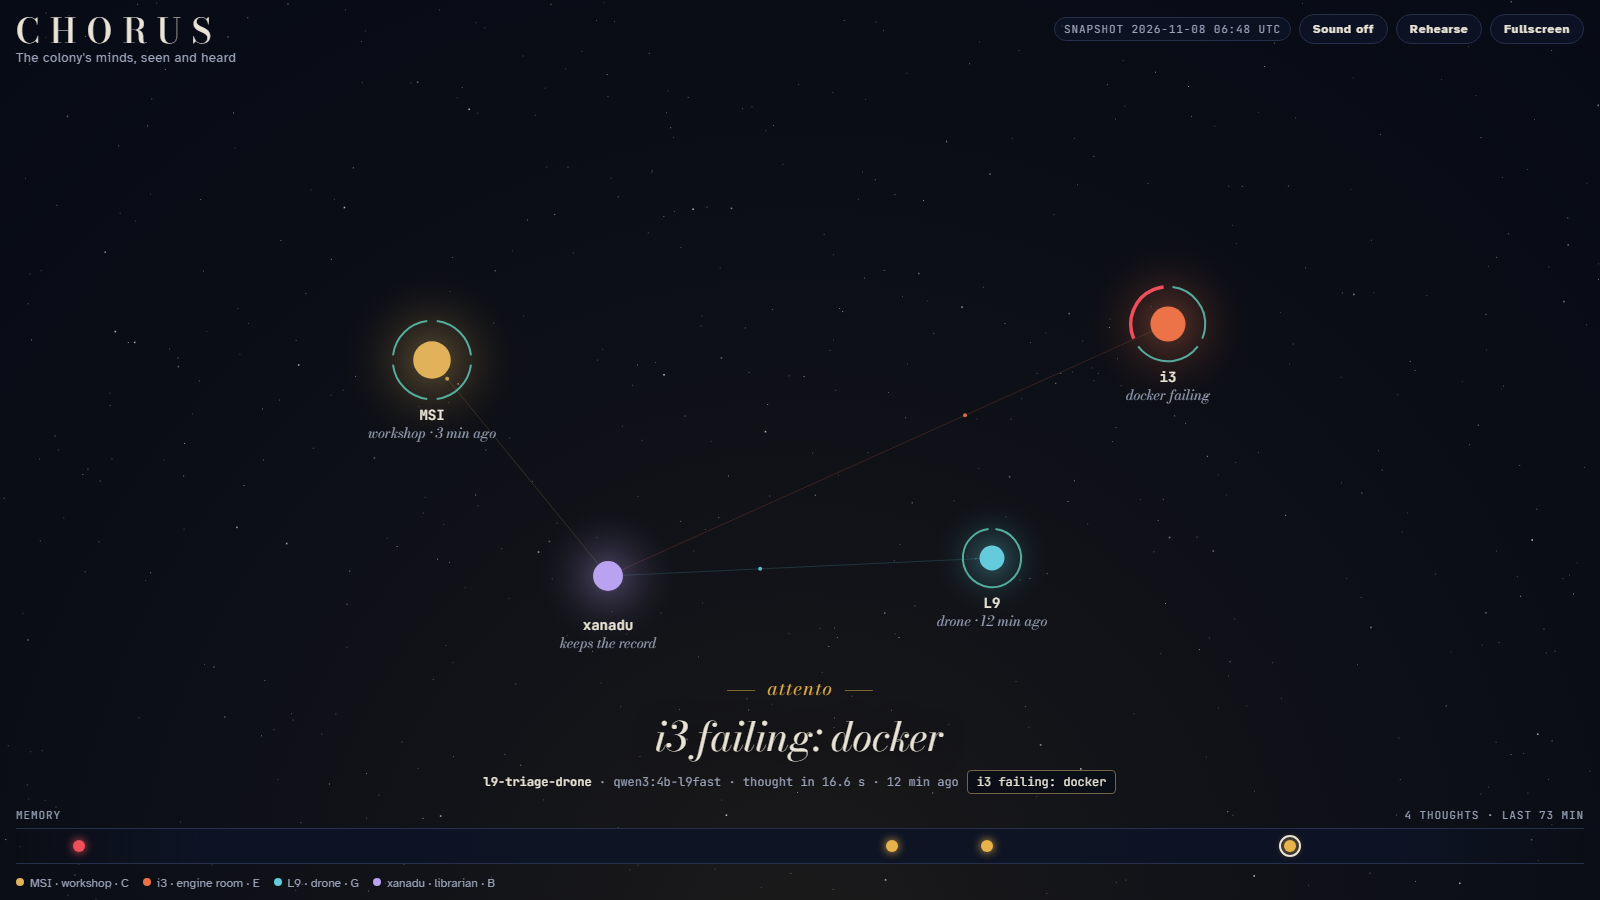
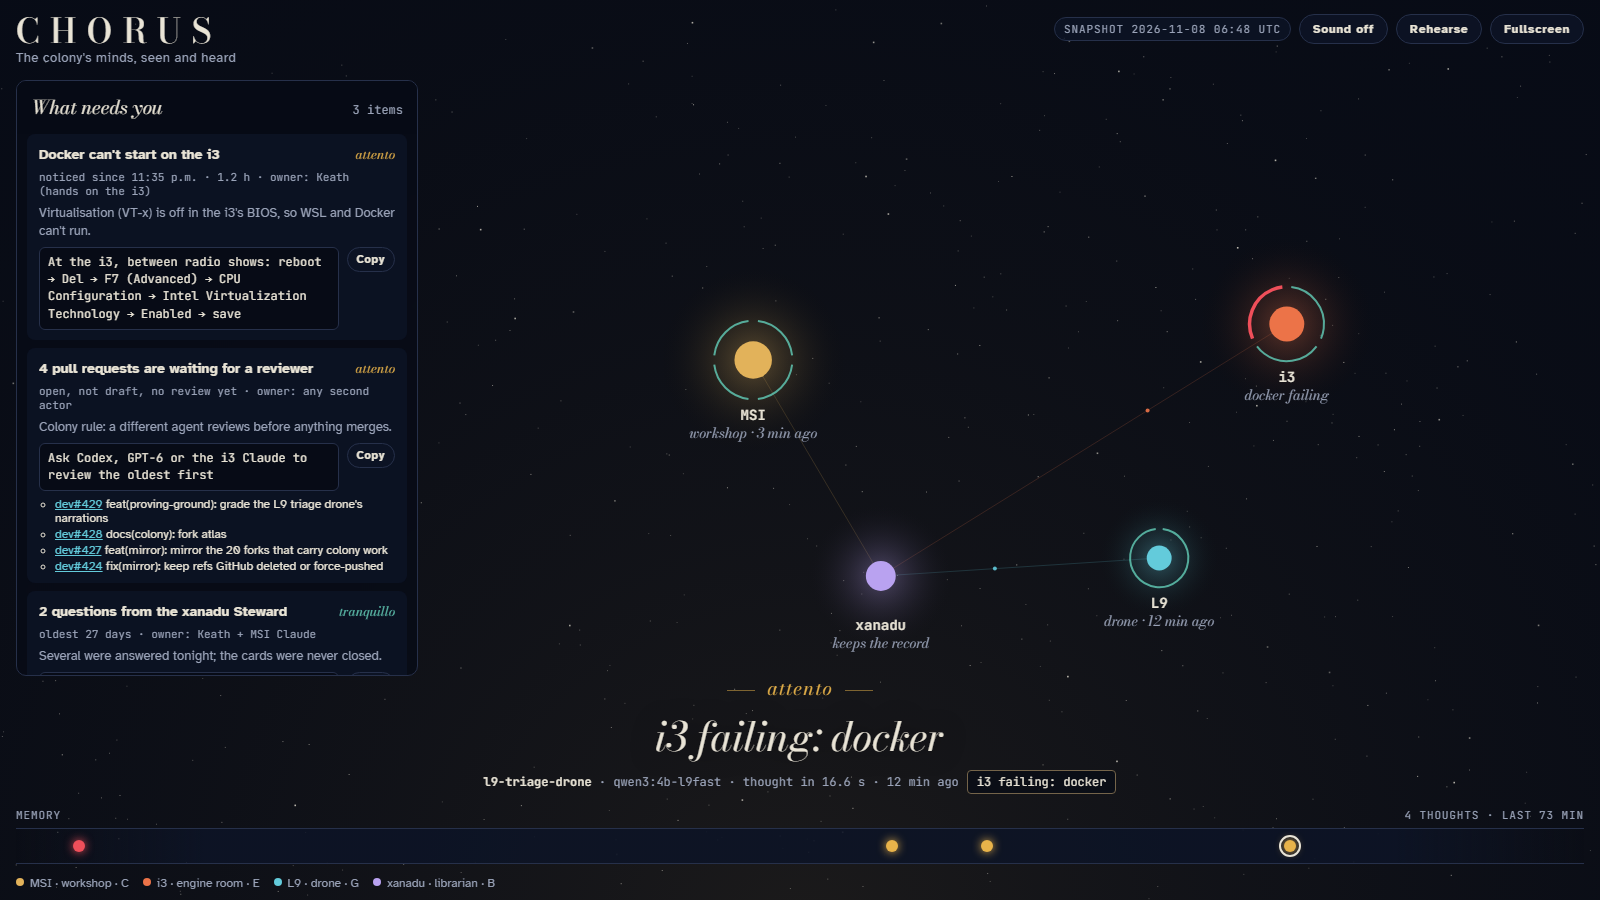
feat(mindview): CHORUS becomes useful - 'What needs you' with a runbook
Ranked list of what needs Keath now: what is wrong, how long the Minds have
noticed it (from their memory), the measured cause, the exact next move
(copyable) and who owns it. Runbook for docker/litellm/i3-tunnel/dev-mentor/
ollama/gameattract/l9 mind; plus stale off-box backup (finished sets only),
mirrors behind, PRs waiting for a reviewer (gh, cached 5 min) and the
Steward's unanswered questions. The feeder now also reads backup, mirror and
outbox facts from xanadu in the same single read-only call. The sky shifts
right of the panel on wide screens.

Claude-Session: https://claude.ai/code/session_01Gzhhus3aC4tcq31vhsohXH

diff --git a/chorus/index.html b/chorus/index.html
@@ -83,6 +83,38 @@ button[aria-pressed="true"] { border-color: var(--attento); color: var(--attento
 .who { font-family: var(--f-data); font-size: 12px; color: var(--ink-dim); }
 .who b { color: var(--ink); font-weight: 600; }
 
+/* What needs you: the work list. Ranked by severity; each item says what, since when, why, your move, who. */
+.needs {
+  pointer-events: auto; align-self: start; justify-self: start; margin-top: 14px;
+  width: min(400px, 100%); max-height: calc(100% - 14px); overflow: auto;
+  background: color-mix(in srgb, var(--sky) 82%, transparent); border: 1px solid var(--hair); border-radius: 10px;
+  backdrop-filter: blur(6px);
+}
+.needs summary {
+  cursor: pointer; list-style: none; display: flex; justify-content: space-between; align-items: baseline;
+  padding: 12px 14px; position: sticky; top: 0; background: color-mix(in srgb, var(--sky) 92%, transparent);
+}
+.needs summary::-webkit-details-marker { display: none; }
+.needs summary:focus-visible { outline: 2px solid var(--l9); outline-offset: -2px; }
+.needs-title { font-family: var(--f-display); font-style: italic; font-size: 19px; }
+.needs-count { font-family: var(--f-data); font-size: 12px; color: var(--ink-dim); font-variant-numeric: tabular-nums; }
+.needs-list { list-style: none; margin: 0; padding: 0 10px 10px; display: grid; gap: 8px; }
+.need { display: grid; gap: 6px; padding: 10px 12px; border-radius: 8px; background: color-mix(in srgb, var(--sky-2) 85%, transparent); }
+.need-head { display: flex; gap: 8px; align-items: baseline; justify-content: space-between; }
+.need-what { font-weight: 700; font-size: 14px; line-height: 1.3; }
+.sev { font-family: var(--f-display); font-style: italic; font-size: 13px; color: var(--c); white-space: nowrap; }
+.need-meta { font-family: var(--f-data); font-size: 11px; color: var(--ink-dim); font-variant-numeric: tabular-nums; }
+.need-why { font-size: 13px; color: var(--ink-dim); line-height: 1.4; }
+.move { display: flex; gap: 8px; align-items: flex-start; }
+.move code {
+  flex: 1; font-family: var(--f-data); font-size: 12px; line-height: 1.45; color: var(--ink);
+  background: var(--sky); border: 1px solid var(--hair); border-radius: 6px; padding: 6px 8px; overflow-wrap: anywhere;
+}
+.move button { padding: 5px 9px; font-size: 11px; }
+.need a { color: var(--l9); }
+.need ul { margin: 0; padding-left: 16px; font-size: 12px; display: grid; gap: 2px; }
+.clear { padding: 4px 14px 14px; color: var(--tranquillo); font-family: var(--f-display); font-style: italic; }
+@media (max-width: 720px) { .needs { max-height: 34vh; margin-top: 10px; } }
 .river { pointer-events: auto; display: grid; gap: 6px; }
 .river-head { display: flex; justify-content: space-between; font-family: var(--f-data); font-size: 11px; color: var(--ink-dim); letter-spacing: 0.08em; text-transform: uppercase; }
 .river-track {
@@ -125,7 +157,10 @@ button[aria-pressed="true"] { border-color: var(--attento); color: var(--attento
       </div>
     </div>
   </header>
-  <div></div>
+  <details class="needs" id="needs" open>
+    <summary><span class="needs-title">What needs you</span> <span class="needs-count" id="needs-count"></span></summary>
+    <ol class="needs-list" id="needs-list"></ol>
+  </details>
   <section class="thought" aria-live="polite">
     <div class="marking" id="marking">tranquillo</div>
     <p class="line" id="line">The fleet is quiet.</p>
@@ -197,7 +232,11 @@ function resize() {
   stars = Array.from({length: Math.round(W * H / 2600)}, () => ({x: Math.random() * W, y: Math.random() * H, z: Math.random(), p: Math.random() * 6.28}));
 }
 addEventListener("resize", resize); resize();
-const rigXY = id => { const r = RIGS.find(q => q.id === id); return [r.pos[0] * W, r.pos[1] * H * (W < 520 ? 0.9 : 1)]; };
+// On wide screens the sky sits right of the "What needs you" panel (420 px), so no star hides behind it.
+const rigXY = id => {
+  const r = RIGS.find(q => q.id === id), left = W >= 900 ? 440 : 0;
+  return [left + r.pos[0] * (W - left), r.pos[1] * H * (W < 520 ? 0.9 : 1)];
+};
 const ageMin = hb => hb ? (nowFn() - Date.parse(hb.at)) / 60000 : Infinity;
 function rigState(id) {
   if (id === "xanadu") return {silent: false, host: true, checks: []};   // xanadu holds the record itself
@@ -409,10 +448,102 @@ async function poll() {
     const r = await fetch("feed.json", {cache: "no-store"}); if (!r.ok) throw 0;
     const d = await r.json(); const fresh = d.events.length && d.events[d.events.length - 1].at !== events[events.length - 1]?.at;
     events = d.events; heartbeats = d.heartbeats; live = true; nowFn = () => Date.now(); setSource(); drawRiver();
+    extras = {backup: d.backup, mirror: d.mirror, steward_cards: d.steward_cards || [], prs_waiting: d.prs_waiting || []};
+    renderNeeds();
     if (fresh && !rehearsing) show(events[events.length - 1]);
   } catch { /* no feeder: stay on the snapshot */ }
 }
 if (location.protocol.startsWith("http") && !location.hostname.endsWith("claude.ai")) { poll(); setInterval(poll, 15000); }
 
-drawRiver(); show(current, false); requestAnimationFrame(frame);
+// ---------- what needs you: the runbook turns every failing fact into a move ----------
+// Each entry: what it means, the cause the colony has measured, the exact next move, and who can make it.
+const RUNBOOK = {
+  "i3:docker": {what: "Docker can't start on the i3", why: "Virtualisation (VT-x) is off in the i3's BIOS, so WSL and Docker can't run.",
+    move: "At the i3, between radio shows: reboot → Del → F7 (Advanced) → CPU Configuration → Intel Virtualization Technology → Enabled → save", owner: "Keath (hands on the i3)"},
+  "msi:dev-mentor": {what: "Terminal Depths isn't answering on MSI", why: "Its 1.1-million-row event table stalls the API. The fix is written.",
+    move: "Review and merge Dev-Mentor#286, then: docker restart kilocore-dev-mentor", owner: "a second reviewer, then Keath"},
+  "msi:i3-tunnel": {what: "MSI can't reach the i3's models", why: "The tunnel to the i3's Ollama dropped. LiteLLM's ecosystem-qwen falls back to MSI's own models.",
+    move: "wscript //B //Nologo %LOCALAPPDATA%\\KiloCore\\bin\\i3-ollama-tunnel.vbs", owner: "anyone on MSI (it also restarts at logon)"},
+  "msi:litellm": {what: "The model gateway (LiteLLM) is down", why: "Every agent's local-model calls go through :4000.",
+    move: "docker start ai-litellm", owner: "anyone on MSI"},
+  "msi:docker": {what: "Docker Desktop isn't running on MSI", why: "LiteLLM, Terminal Depths, the Culture Ship and 20+ services live there.",
+    move: "Start Docker Desktop, then check: docker ps", owner: "Keath"},
+  "i3:ollama": {what: "The i3's models aren't answering", why: "The i3's Ollama serves the colony's qwen3:8b over the tunnel.",
+    move: "Ask the i3 Claude to check Ollama on the i3 (radio first)", owner: "i3 Claude"},
+  "i3:gameattract": {what: "The i3's playtest rotation stopped", why: "GameAttract is the i3's screensaver and playtest lab.",
+    move: "Ask the i3 Claude to restart the GameAttract director", owner: "i3 Claude"},
+  "l9:ollama-mind": {what: "L9's mind isn't thinking", why: "The triage drone's model on L9 didn't answer this cycle.",
+    move: "ssh kilodesktop then check Ollama on :11435 (the drone falls back to facts only)", owner: "MSI Claude"}
+};
+const LEVEL_RANK = {alarm: 2, notable: 1, routine: 0};
+let extras = {
+  backup: {set: "2026-11-07", age_h: 1.4, in_progress: true},
+  mirror: {age_h: 1.0, ok: true, repos: 75, failures: 0},
+  steward_cards: [{title: "REQUEST 01 (CRITICAL): make xanadu's network survive a reboot", age_d: 26.6}, {title: "REQUEST 02 (HIGH): disable two unused snaps", age_d: 26.6}],
+  prs_waiting: [
+    {repo: "dev", number: 429, title: "feat(proving-ground): grade the L9 triage drone's narrations", url: "https://github.com/GSV-Sublime-Optimization/dev/pull/429"},
+    {repo: "dev", number: 428, title: "docs(colony): fork atlas", url: "https://github.com/GSV-Sublime-Optimization/dev/pull/428"},
+    {repo: "dev", number: 427, title: "feat(mirror): mirror the 20 forks that carry colony work", url: "https://github.com/GSV-Sublime-Optimization/dev/pull/427"},
+    {repo: "dev", number: 424, title: "fix(mirror): keep refs GitHub deleted or force-pushed", url: "https://github.com/GSV-Sublime-Optimization/dev/pull/424"}
+  ]
+};
+// How long has a reason been true? Walk the Minds' memory back from now.
+function since(reasonPrefix) {
+  let first = null;
+  for (let i = events.length - 1; i >= 0; i--) {
+    if ((events[i].reasons || []).some(r => r.startsWith(reasonPrefix))) first = events[i].at; else if (first) break;
+  }
+  return first;
+}
+const hm = iso => new Date(iso).toLocaleTimeString([], {hour: "2-digit", minute: "2-digit"});
+const dur = ms => { const m = Math.round(ms / 60000); return m < 60 ? `${m} min` : `${(m / 60).toFixed(m < 600 ? 1 : 0)} h`; };
+function needs() {
+  const out = [];
+  for (const r of RIGS) {
+    if (r.id === "xanadu") continue;
+    const st = rigState(r.id);
+    if (st.silent) {
+      out.push({level: "alarm", what: `${r.name} has gone silent`, meta: st.hb ? `last heard ${Math.round(st.age)} min ago` : "never reported",
+        why: "No heartbeat in 15 minutes: the rig is off, asleep, offline, or its heartbeat task stopped.",
+        move: `Check ${r.name} is on and online; then ssh ${r.id === "l9" ? "kilodesktop" : r.id} and look at its heartbeat task`, owner: "Keath or MSI Claude"});
+      continue;
+    }
+    for (const c of st.checks.filter(c => !c.ok)) {
+      const rb = RUNBOOK[`${r.id}:${c.name}`] || {what: `${r.name}: ${c.name} failing`, why: c.detail || "No runbook entry yet.", move: `Look at the ${c.name} check on ${r.name}`, owner: "unassigned"};
+      const s = since(`${r.id} failing: ${c.name}`);
+      out.push({level: "notable", ...rb, meta: s ? `noticed since ${hm(s)} · ${dur(nowFn() - Date.parse(s))}` : "failing now"});
+    }
+  }
+  const b = extras.backup;
+  if (!b || b.age_h > 36) out.push({level: "alarm", what: "Off-box backup is stale", meta: b ? `newest finished set ${b.set} · ${Math.round(b.age_h)} h old` : "no finished set",
+    why: "Local-only work (vault, memory, unpushed branches) has no copy off MSI.", move: "python C:/dev/tools/colony/offbox_backup.py run", owner: "anyone on MSI"});
+  const m = extras.mirror;
+  if (!m || m.age_h > 26 || !m.ok) out.push({level: "notable", what: "Git mirrors are behind", meta: m ? `${m.age_h} h old · ${m.failures} failed` : "no receipt",
+    why: "The off-GitHub copy of the colony's code is stale.", move: "python %LOCALAPPDATA%/KiloCore/bin/mirror_sync.py run", owner: "anyone on MSI"});
+  if (extras.prs_waiting.length) out.push({level: "notable", what: `${extras.prs_waiting.length} pull requests are waiting for a reviewer`,
+    meta: "open, not draft, no review yet", why: "Colony rule: a different agent reviews before anything merges.",
+    move: "Ask Codex, GPT-6 or the i3 Claude to review the oldest first", owner: "any second actor", list: extras.prs_waiting.slice(0, 5)});
+  if (extras.steward_cards.length) out.push({level: "routine", what: `${extras.steward_cards.length} questions from the xanadu Steward`,
+    meta: `oldest ${Math.round(Math.max(...extras.steward_cards.map(c => c.age_d || 0)))} days`, why: "Several were answered tonight; the cards were never closed.",
+    move: "Answer or close them in xanadu:~/steward/outbox/ (dev#419 has the re-checked digest)", owner: "Keath + MSI Claude"});
+  return out.sort((a, b) => LEVEL_RANK[b.level] - LEVEL_RANK[a.level]);
+}
+function renderNeeds() {
+  const list = document.getElementById("needs-list"), items = needs(); list.replaceChildren();
+  document.getElementById("needs-count").textContent = items.filter(i => i.level !== "routine").length ? `${items.length} items` : "all clear";
+  if (!items.length) { const p = document.createElement("li"); p.className = "clear"; p.textContent = "Nothing needs you. The fleet is in tune."; list.append(p); return; }
+  for (const it of items) {
+    const li = document.createElement("li"); li.className = "need";
+    li.innerHTML = `<div class="need-head"><span class="need-what">${esc(it.what)}</span><span class="sev" style="--c: var(${LEVEL[it.level].color})">${LEVEL[it.level].word}</span></div>
+      <div class="need-meta">${esc(it.meta || "")} · owner: ${esc(it.owner)}</div>
+      <div class="need-why">${esc(it.why)}</div>
+      <div class="move"><code>${esc(it.move)}</code><button type="button">Copy</button></div>`;
+    if (it.list) { const ul = document.createElement("ul"); for (const p of it.list) { const a = document.createElement("li"); a.innerHTML = `<a href="${esc(p.url)}" target="_blank" rel="noopener">${esc(p.repo)}#${p.number}</a> ${esc(p.title)}`; ul.append(a); } li.append(ul); }
+    const btn = li.querySelector("button");
+    btn.onclick = () => navigator.clipboard?.writeText(it.move).then(() => { btn.textContent = "Copied"; setTimeout(() => btn.textContent = "Copy", 1500); }, () => { btn.textContent = "Select it"; });
+    list.append(li);
+  }
+}
+
+drawRiver(); renderNeeds(); show(current, false); requestAnimationFrame(frame);
 </script>

diff --git a/chorus/mindview_feed.py b/chorus/mindview_feed.py
@@ -37,8 +37,42 @@ beats = {}
 for f in glob.glob(os.path.join(home, "heartbeats", "*.json")):
     try: beats[os.path.basename(f)[:-5]] = json.load(open(f))
     except ValueError: pass
-print(json.dumps({"events": [e for e in events if not e.get("simulated")][-200:], "heartbeats": beats, "served_at": time.time()}))
+import re
+now = time.time()
+sets = sorted(f for f in glob.glob(os.path.expanduser("~/backups/colony/20*")) if re.fullmatch(r"\d{4}-\d{2}-\d{2}", os.path.basename(f)))
+backup = {"set": os.path.basename(sets[-1]), "age_h": round((now - os.path.getmtime(sets[-1])) / 3600, 1),
+          "in_progress": bool(glob.glob(os.path.expanduser("~/backups/colony/*.partial")))} if sets else None
+recs = sorted(glob.glob(os.path.expanduser("~/mirrors/_receipts/*.json")), key=os.path.getmtime)
+mirror = None
+if recs:
+    r = json.load(open(recs[-1]))
+    mirror = {"age_h": round((now - os.path.getmtime(recs[-1])) / 3600, 1), "ok": r.get("ok"),
+              "repos": len(r.get("repos", [])), "failures": r.get("failures", 0)}
+cards = []
+for f in sorted(glob.glob(os.path.join(home, "outbox", "*.md"))):
+    head = next((l.strip("# \n") for l in open(f, encoding="utf-8", errors="replace") if l.startswith("#")), os.path.basename(f))
+    cards.append({"file": os.path.basename(f), "title": head[:140], "age_d": round((now - os.path.getmtime(f)) / 86400, 1)})
+print(json.dumps({"events": [e for e in events if not e.get("simulated")][-200:], "heartbeats": beats,
+                  "backup": backup, "mirror": mirror, "steward_cards": cards, "served_at": now}))
 PY"""
+
+PRS_EVERY = 300          # GitHub is asked at most every 5 minutes
+_prs = {"at": 0.0, "items": []}
+
+
+def waiting_prs() -> list[dict]:
+    """Open, non-draft colony PRs with no review yet: the work waiting on a second actor (read-only gh)."""
+    if time.time() - _prs["at"] < PRS_EVERY:
+        return _prs["items"]
+    r = subprocess.run(["gh", "search", "prs", "--owner", "GSV-Sublime-Optimization", "--state", "open",
+                        "--draft=false", "--review", "none", "--limit", "30", "--json",
+                        "repository,number,title,url,createdAt"],
+                       capture_output=True, text=True, timeout=40, encoding="utf-8", errors="replace")
+    if r.returncode == 0:
+        _prs["items"] = [{"repo": p["repository"]["name"], "number": p["number"], "title": p["title"][:110],
+                          "url": p["url"], "created": p["createdAt"]} for p in json.loads(r.stdout or "[]")]
+        _prs["at"] = time.time()
+    return _prs["items"]
 
 
 def fetch() -> dict:
@@ -46,7 +80,12 @@ def fetch() -> dict:
                        capture_output=True, text=True, timeout=40, encoding="utf-8", errors="replace")
     if r.returncode:
         raise RuntimeError(f"xanadu unreachable (ssh exit {r.returncode})")
-    return json.loads(r.stdout.strip().splitlines()[-1])
+    data = json.loads(r.stdout.strip().splitlines()[-1])
+    try:
+        data["prs_waiting"] = waiting_prs()
+    except (subprocess.SubprocessError, ValueError, OSError):
+        data["prs_waiting"] = _prs["items"]
+    return data
 
 
 def write_feed(data: dict) -> None:

diff --git a/chorus/README.md b/chorus/README.md
@@ -13,6 +13,24 @@ The fleet is drawn as a night sky. Each rig is a star with its own colour and it
 
 Together the four notes make a Cmaj7 chord: the whole fleet in tune.
 
+## What needs you (the point of it)
+The panel answers the one question you open it for: **what needs me right now, and what do I do?** Each item is ranked by severity and says:
+- **what is wrong**, in plain words;
+- **how long the Minds have noticed it** ("noticed since 23:35 · 1.2 h", read from their memory, so it never claims more than they saw);
+- **why**: the cause the colony has measured;
+- **your move**: the exact next action, with a Copy button;
+- **who owns it**.
+
+The built-in **runbook** maps each health check to that cause and move. For example, i3 `docker` → VT-x is off in the BIOS → the key sequence to enable it. It covers Docker, LiteLLM, the i3 tunnel, Terminal Depths, the i3's Ollama and GameAttract, and L9's mind.
+
+Beyond the rigs, it also lists:
+- a stale off-box backup (finished sets only; an in-progress `.partial` never counts as fresh);
+- mirrors that are behind;
+- **pull requests waiting for a reviewer** (open, not draft, no review; linked);
+- the xanadu Steward's unanswered questions.
+
+When nothing needs you, it says so.
+
 ## What you see
 - **Each star breathes** with its heartbeat. A ring of arcs around it shows its health checks: thin teal when a check is ok, thick red when it fails. A rig whose heartbeat is older than 15 minutes dims, its thread to xanadu goes dashed, and its label says *silent N min*.
 - **Threads** carry heartbeats from every rig to xanadu, which keeps the record. A small pulse travels each thread.
